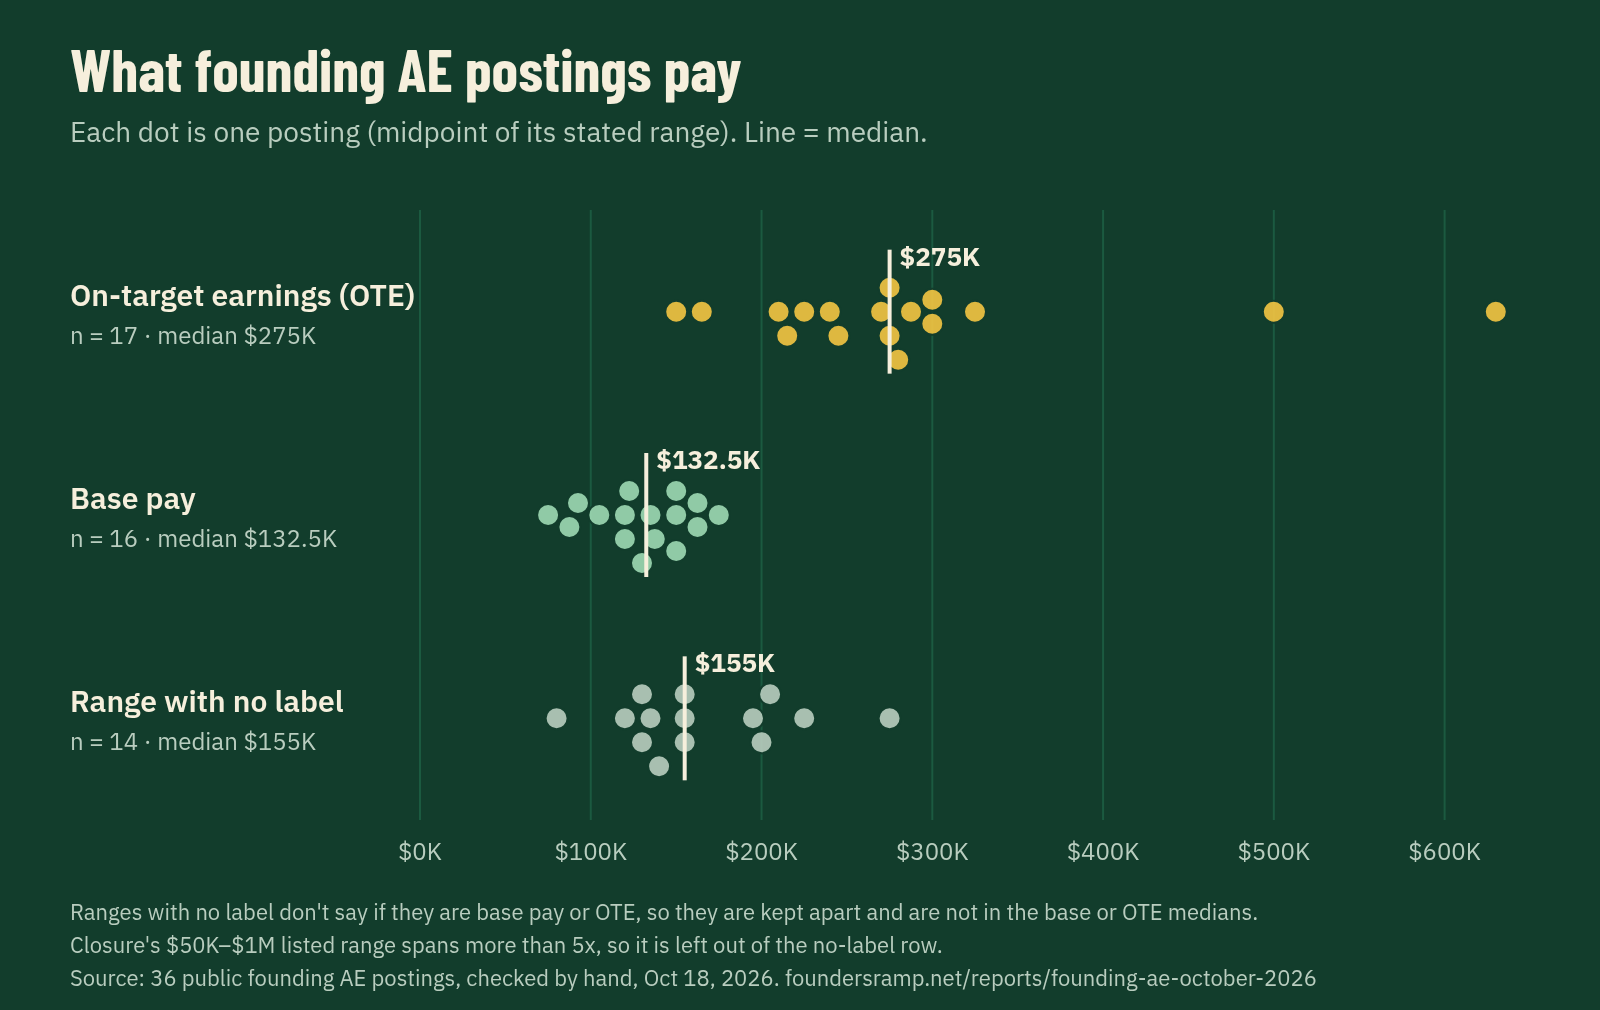
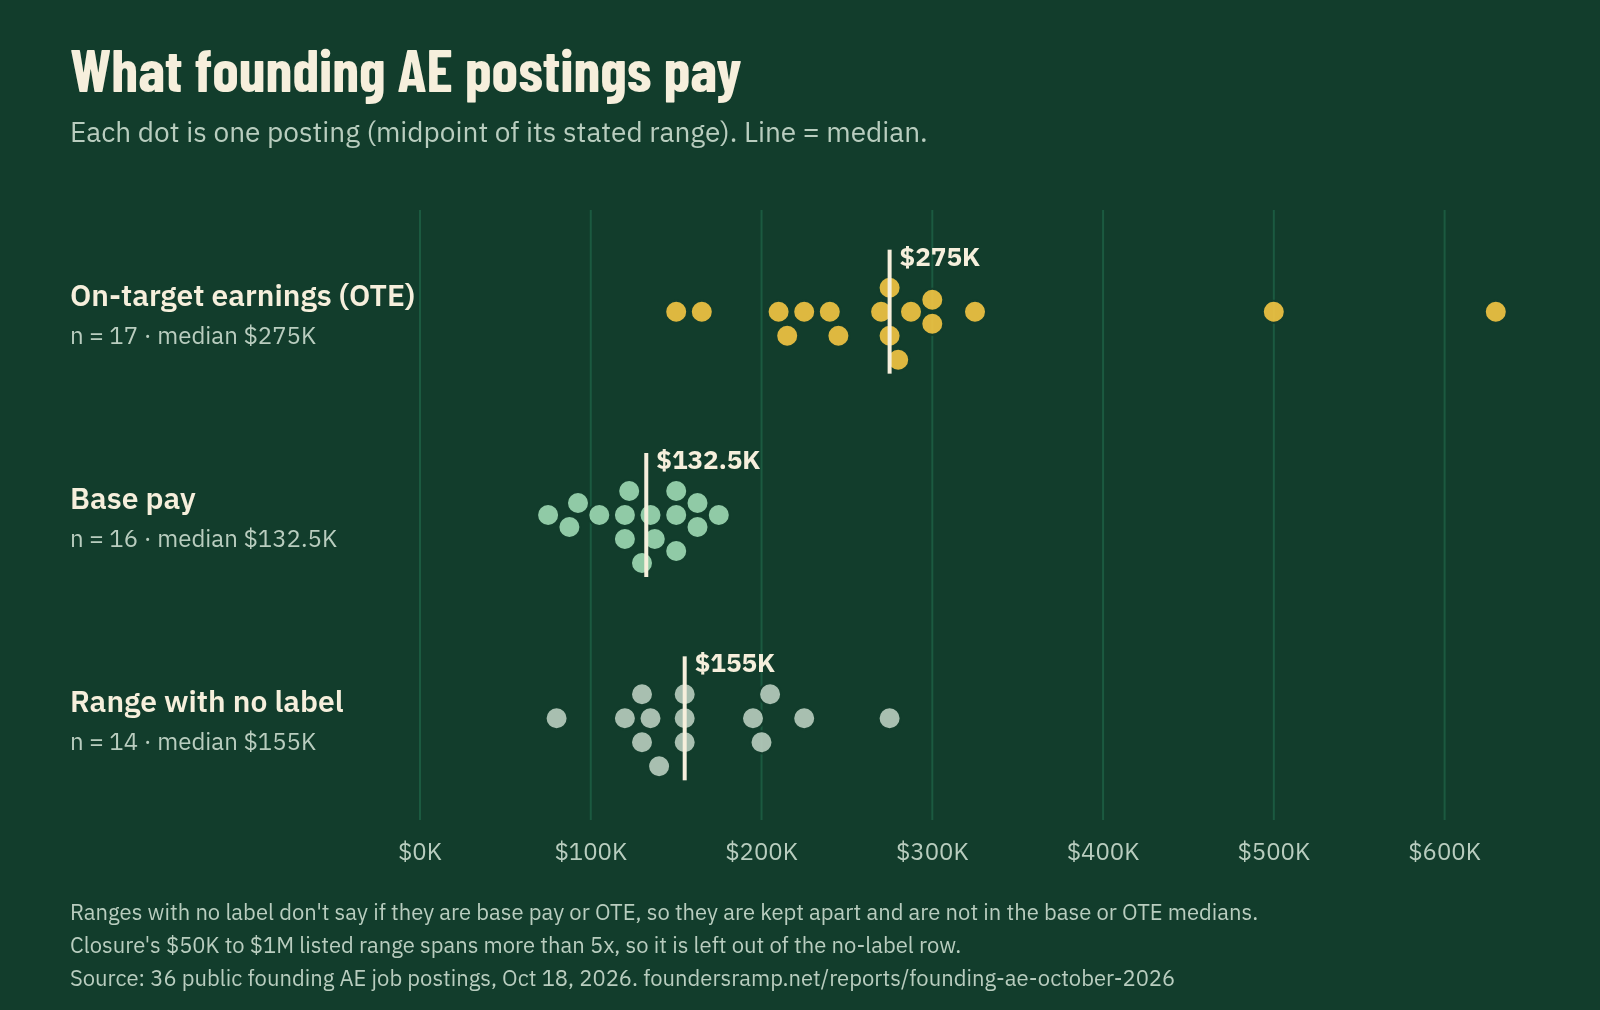
AE pay report r2: Sloane's re-rendered charts + phone versions via <picture>, renamed social cards, og/twitter image alt, Article image = LinkedIn card (DO NOT MERGE until Justin says Ship)

Changed region(s): [[0.125, 0.9208, 0.8125, 0.9822]]

diff --git a/reports/founding-ae-october-2026/index.html b/reports/founding-ae-october-2026/index.html
@@ -11,13 +11,15 @@
   <meta property="og:url" content="https://www.foundersramp.net/reports/founding-ae-october-2026/">
   <meta property="og:type" content="article">
   <meta property="og:site_name" content="Founders Ramp">
-  <meta property="og:image" content="https://www.foundersramp.net/assets/reports/founding-ae-october-2026/social-linkedin.png">
+  <meta property="og:image" content="https://www.foundersramp.net/assets/reports/founding-ae-october-2026/social-linkedin-1200x1500.png">
   <meta property="og:image:width" content="1200">
   <meta property="og:image:height" content="1500">
+  <meta property="og:image:alt" content="Founding AE pay: 13 of 17 OTE offers land between $200K and $350K. Dot chart of the 17 job postings that state on-target earnings, one dot per posting at the midpoint of its OTE range: 2 from $150K to $199K, 5 from $200K to $249K, 5 from $250K to $299K, 3 from $300K to $349K, and two outliers at $500K and $630K. Median OTE is $275K. Source: 36 public founding AE job postings, Oct 18, 2026.">
   <meta name="twitter:card" content="summary_large_image">
-  <meta name="twitter:image" content="https://www.foundersramp.net/assets/reports/founding-ae-october-2026/social-x.png">
+  <meta name="twitter:image" content="https://www.foundersramp.net/assets/reports/founding-ae-october-2026/social-x-1600x900.png">
+  <meta name="twitter:image:alt" content="Founding AE pay: 13 of 17 OTE offers land between $200K and $350K. Dot chart of the 17 job postings that state on-target earnings, one dot per posting at the midpoint of its OTE range: 2 from $150K to $199K, 5 from $200K to $249K, 5 from $250K to $299K, 3 from $300K to $349K, and two outliers at $500K and $630K. Median OTE is $275K. Source: 36 public founding AE job postings, Oct 18, 2026.">
   <script type="application/ld+json">
-  {"@context": "https://schema.org", "@graph": [{"@type": "Article", "headline": "Founding AE pay report, October 2026", "datePublished": "2026-10-23", "dateModified": "2026-10-23", "url": "https://www.foundersramp.net/reports/founding-ae-october-2026/", "mainEntityOfPage": "https://www.foundersramp.net/reports/founding-ae-october-2026/", "author": {"@type": "Person", "@id": "https://www.foundersramp.net/#justin", "name": "Justin Weller", "url": "https://www.foundersramp.net/about/justin-weller/"}, "publisher": {"@type": "Organization", "@id": "https://www.foundersramp.net/#org", "name": "Founders Ramp", "logo": {"@type": "ImageObject", "url": "https://www.foundersramp.net/assets/logo.jpg"}}, "image": "https://www.foundersramp.net/assets/logo.jpg"}, {"@type": "Dataset", "name": "Founding AE job postings, October 2026", "description": "What 36 US startups offer their first or founding seller, from live job postings as of October 18, 2026: median on-target earnings $275K (17 postings), median base $132.5K (16), median equity 0.59% (16).", "url": "https://www.foundersramp.net/reports/founding-ae-october-2026/", "temporalCoverage": "2026-10-18", "creator": {"@id": "https://www.foundersramp.net/#org"}, "variableMeasured": ["base pay", "on-target earnings", "equity", "remote policy"]}]}
+  {"@context": "https://schema.org", "@graph": [{"@type": "Article", "headline": "Founding AE pay report, October 2026", "datePublished": "2026-10-23", "dateModified": "2026-10-23", "url": "https://www.foundersramp.net/reports/founding-ae-october-2026/", "mainEntityOfPage": "https://www.foundersramp.net/reports/founding-ae-october-2026/", "author": {"@type": "Person", "@id": "https://www.foundersramp.net/#justin", "name": "Justin Weller", "url": "https://www.foundersramp.net/about/justin-weller/"}, "publisher": {"@type": "Organization", "@id": "https://www.foundersramp.net/#org", "name": "Founders Ramp", "logo": {"@type": "ImageObject", "url": "https://www.foundersramp.net/assets/logo.jpg"}}, "image": "https://www.foundersramp.net/assets/reports/founding-ae-october-2026/social-linkedin-1200x1500.png"}, {"@type": "Dataset", "name": "Founding AE job postings, October 2026", "description": "What 36 US startups offer their first or founding seller, from live job postings as of October 18, 2026: median on-target earnings $275K (17 postings), median base $132.5K (16), median equity 0.59% (16).", "url": "https://www.foundersramp.net/reports/founding-ae-october-2026/", "temporalCoverage": "2026-10-18", "creator": {"@id": "https://www.foundersramp.net/#org"}, "variableMeasured": ["base pay", "on-target earnings", "equity", "remote policy"]}]}
   </script>
   <link rel="preload" href="/fonts/IBMPlexSans-400-latin-a68a20.woff2" as="font" type="font/woff2" crossorigin>
   <link rel="preload" href="/fonts/BarlowCondensed-700-latin-f60870.woff2" as="font" type="font/woff2" crossorigin>
@@ -92,13 +94,13 @@
 </tbody></table></div>
 <p><strong>Ranges with no label.</strong> 15 postings give a pay range without saying if it is base pay or on-target earnings. Leaving out Closure (see below), their median midpoint is $155K, with midpoints from $80K to $275K. We keep these apart. They are not base pay and not on-target earnings, so they are not in the rows above.</p>
 <figure class="stage">
-  <a href="/assets/reports/founding-ae-october-2026/chart1-pay.png"><img src="/assets/reports/founding-ae-october-2026/chart1-pay.png" alt="Dot chart of founding AE pay in 36 public postings checked by hand on Oct 18, 2026. Each dot is one posting's range midpoint, in three separate rows. On-target earnings (17 postings): median $275K, spread from $150K to $630K, with two high outliers at $500K and $630K. Base pay (16 postings): median $132.5K, from $75K to $175K. Ranges with no label (14 postings), which don't say if they are base or OTE, are kept apart: median $155K, from $80K to $275K. Closure's $50K to $1M listed range is left out." width="1600" height="1010" loading="lazy" decoding="async"></a>
+  <a href="/assets/reports/founding-ae-october-2026/chart1-pay.png"><picture><source media="(max-width: 600px)" srcset="/assets/reports/founding-ae-october-2026/chart1-pay-mobile.png" width="700" height="1861"><img src="/assets/reports/founding-ae-october-2026/chart1-pay.png" alt="Dot chart of founding AE pay in 36 public founding AE job postings, Oct 18, 2026. Each dot is one posting&#x27;s range midpoint, in three separate groups. On-target earnings (17 postings): median $275K, spread from $150K to $630K, with two high outliers at $500K and $630K. Base pay (16 postings): median $132.5K, from $75K to $175K. Ranges with no label (14 postings), which don&#x27;t say if they are base or OTE, are kept apart: median $155K, from $80K to $275K. Closure&#x27;s $50K to $1M listed range is left out." width="1600" height="1010" loading="lazy" decoding="async"></picture></a>
 </figure>
 <p><strong>Two high on-target numbers.</strong> Two postings state on-target earnings far above the rest: $630K (Foresight Health, with a $150K base) and $500K (Hedge Specialty, with a $110K to $150K base). Both are in the median. A median moves little when the top values change, which is why we use it.</p>
 <h2>Where the job is</h2>
 <p>9 of the 36 postings say the hire can work remotely anywhere in the US. 6 more allow some remote work with limits, such as one city or region, or say remote will be considered. 20 ask the hire to work from an office, full time or part of the week, and 1 does not say.</p>
 <figure class="stage">
-  <a href="/assets/reports/founding-ae-october-2026/chart2-equity-remote.png"><img src="/assets/reports/founding-ae-october-2026/chart2-equity-remote.png" alt="Two grids of 36 squares, one per posting. Left: 29 of 36 postings mention equity; the 16 that give a range have a median of 0.59%, and 13 mention equity with no range. Right: 9 of 36 allow remote work anywhere in the US. 6 more allow remote with limits, shown in a lighter tint: BlueAlpha (London, San Francisco or remote), Clicks Health (New York and Florida only), LightSprint (San Francisco area only), Clueso and Roboto AI (remote, but no US-wide statement) and Closure (remote only considered). 20 ask for office work and 1 does not say. Source: 36 public founding AE postings, checked by hand, Oct 18, 2026." width="1600" height="880" loading="lazy" decoding="async"></a>
+  <a href="/assets/reports/founding-ae-october-2026/chart2-equity-remote.png"><picture><source media="(max-width: 600px)" srcset="/assets/reports/founding-ae-october-2026/chart2-equity-remote-mobile.png" width="700" height="1545"><img src="/assets/reports/founding-ae-october-2026/chart2-equity-remote.png" alt="Two grids of 36 squares, one per posting. Equity: 29 of 36 postings mention equity; the 16 that give a range have a median of 0.59%, and 13 mention equity with no range. Remote: 9 of 36 allow remote work anywhere in the US. 6 more allow remote with limits, shown in a lighter tint: BlueAlpha (London, San Francisco or remote), Clicks Health (New York and Florida only), LightSprint (San Francisco area only), Clueso and Roboto AI (remote, but no US-wide statement) and Closure (remote only considered). 20 ask for office work and 1 does not say. Source: 36 public founding AE job postings, Oct 18, 2026." width="1600" height="880" loading="lazy" decoding="async"></picture></a>
 </figure>
 <h2>What else the postings say</h2>
 <p>33 of 36 state pay in some form. 3 state no pay at all. 7 state a deal size or a sales target, too few to group pay by deal size.</p>
